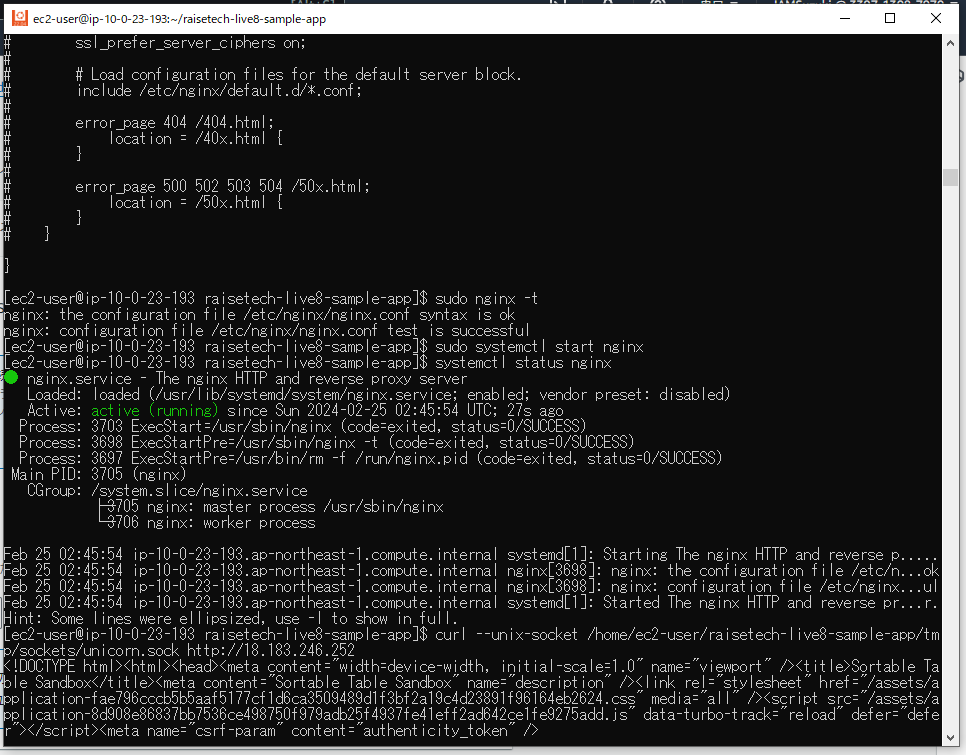
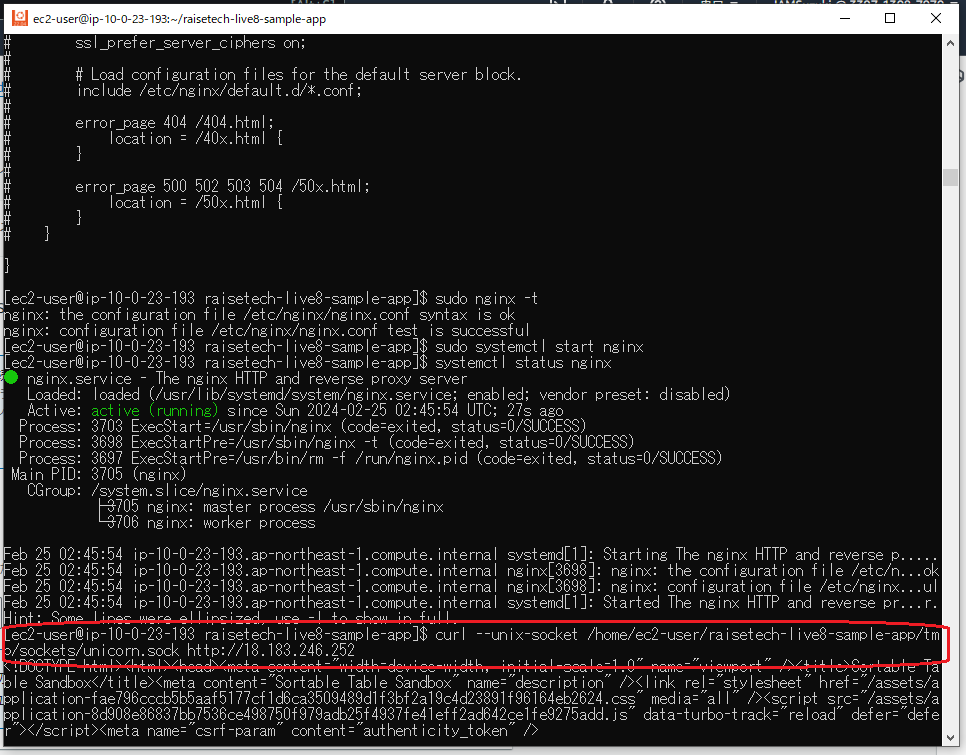
update lecture05.md

Changed region(s): [[0.8696, 0.8225, 0.9938, 0.8834], [0.0, 0.8225, 0.1242, 0.8834]]

diff --git a/lecture05.md b/lecture05.md
@@ -5,42 +5,47 @@
 ### [サンプルアプリケーション](https://github.com/yuta-ushijima/raisetech-live8-sample-app)のデプロイ結果
 
 - 組み込みサーバーのみ  
-  ![図](images_lec5/fruit_db_enbded.PNG)  
+    ![図](images_lec5/fruit_db_enbded.PNG)  
 
   - RDSへのデータ登録できていることも確認  
-    ![図](images_lec5/check_RDS_table.PNG)  
+      ![図](images_lec5/check_RDS_table.PNG)  
 
 
 - サーバーアプリケーションを分離  
-  ![図](images_lec5/start_status_nginx_unicorn.PNG)  
+    ![図](images_lec5/start_status_nginx_unicorn.PNG)  
 
   - curlコマンドでunix domain socket経由アクセス接続確認  
-    ![図](images_lec5/curl_socket_nginx.PNG)  
+      ![図](images_lec5/curl_socket_nginx.PNG)  
 
 
 - ALB追加  
-  ![図](images_lec5/access_through_alb.PNG)  
+    ![図](images_lec5/access_through_alb.PNG)  
 
 
 - S3追加  
-  ![図](images_lec5/s3_test3.PNG)  
+    ![図](images_lec5/s3_test3.PNG)  
 
-  - S3側で登録された画像を確認
-    ![図](images_lec5/s3_test4.PNG)  
+    - S3側で登録された画像を確認  
+      ![図](images_lec5/s3_test4.PNG)  
+
 
 ### 構成図
 
 - [Draw.io](https://app.diagrams.net/)で作成  
-  ![図](images_lec5/.PNG)  
+    ![図](images_lec5/AWS_Architecture.PNG)  
+
 
 
 ## 所感
 
 - ALBとS3については、マネジメントコンソール内で説明書きを読みながら割とあっさり設定完了できた  
-- 今回の課題は各種ソフトウェアのインストール・Ruby on Rails・Unicorn・Nginxの導入をAWSよりも学ぶウエイトが大きかった。 事前に設定方法や手順を整理して臨んだが、これができていなかったらもっと時間がかかったはず。  
+  - 今回の課題では、AWS自体よりも知識をほとんど持っていないRuby on Rails・Unicorn・Nginxの導入を学ぶウエイトが大きかった。 
+  - 事前に設定方法や手順を整理して臨んだが、これができていなかったらもっと時間がかかった。 
+
+
 - 今回一番の手戻り  
-    - NginxとUnicornを両方起動して通信させる際、403エラーの解決に3日要した。原因はNginxの設定ファイル内のtry_filesの記載漏れが原因だが、エラー番号から連想できない箇所で、NginxとUnicornのユーザー不整合やアクセス権限の問題を探してしまった。  
-      ![図](images_lec5/forbidden_by_tryfiles.PNG)  
+    - NginxとUnicornを両方起動して通信させる際、403エラーの解決に3日要した。原因はNginxの設定ファイル内のtry_filesの記載漏れが原因\(下図はエラー再現実験\)だが、エラー番号から連想できない箇所で、NginxとUnicornのユーザー不整合やアクセス権限の問題を散々探してしまった。  
+      ![図](images_lec5/error_try_files.PNG)  
 
 
 ## 備忘録
@@ -216,18 +221,18 @@
   > [!IMPORTANT]  
   > 組み込みサーバーによる起動成功を確認後に着手
 
-    - Gemfileに以下コードが記載されていることを確認  
+  - Gemfileに以下コードが記載されていることを確認  
 
-      ```ruby:Gemfile
-      gem 'unicorn'
-      ```
+    ```ruby:Gemfile
+    gem 'unicorn'
+    ```
 
-    - インストールコマンド実行
-      ![図](images_lec5/install_bundle_unicorn.PNG)  
+  - インストールコマンド実行
+    ![図](images_lec5/install_bundle_unicorn.PNG)  
 
-      ```
-      bundle install
-      ```
+    ```
+    bundle install
+    ```
 
 - 設定用ファイルの作成・編集  
   [`unicorn.rb`](https://github.com/herokaijp/devcenter/wiki/Rails-unicorn#%E8%A8%AD%E5%AE%9A)を編集し、sockteファイル・pidファイルの保存先を見直し  
@@ -241,22 +246,22 @@
   > [!NOTE]  
   > 起動時に\-pオプションでポート番号指定、\-Eオプションで環境指定\(`deveopment`は開発環境、`production`は本番環境\)、-Dオプションでデーモン\(常駐\)プロセス
 
-    ```
-    bundle exec unicorn -c config/unicorn.rb -p 3000 -E development -D
-    ```
+  ```
+  bundle exec unicorn -c config/unicorn.rb -p 3000 -E development -D
+  ```
 
-    ```
-    kill -QUIT `cat tmp/pids/unicorn.pid`
-    ```
+  > [!IMPORTANT]  
+  > pidファイルの保管場所にパスを修正しないと、pidファイルが無い旨のエラーが出て停止できない  
 
-    > [!IMPORTANT]  
-    > pidファイルの保管場所にパスを修正しないと、pidファイルが無い旨のエラーが出て停止できない  
+  ```
+  kill -QUIT `cat tmp/pids/unicorn.pid`
+  ```
 
-    ```
-    ps -ef | grep unicorn | grep -v grep
-    ```
+  ```
+  ps -ef | grep unicorn | grep -v grep
+  ```
 
-    ![図](images_lec5/start_status_unicorn.PNG)  
+  ![図](images_lec5/start_status_unicorn.PNG)  
 
   エラー時は以下を確認  
   ![図](images_lec5/error_RDS_not_activate1.PNG)  
@@ -296,8 +301,10 @@
     nginx -v
     ```
 
+
 - 設定用ファイルの作成・編集・内容チェック  
-  ![図](images_lec5/.PNG)★  
+  ![図](images_lec5/nginx_cnf_update_point1.PNG)  
+  ![図](images_lec5/nginx_cnf_update_point.PNG)  
 
   ```
   sudo cp -a /etc/nginx/nginx.conf /etc/nginx/nginx.conf.sample
@@ -308,11 +315,13 @@
   `local@unicorn`の記述の中に`proxy_set_header`がないと以下エラー  
     ![図](images_lec5/error_proxy_set.PNG)  
 
-  `server`の記述の中に`try_files`がないと以下エラー  
+
+  - `server`の記述の中に`try_files`がないと以下エラー\(下図はエラー再現実験\)  
+    ![図](images_lec5/forbidden_by_tryfiles.PNG)  
     ![図](images_lec5/error_try_files.PNG)  
 
 
-  - Nginxのの起動・停止・状態確認  
+  - Nginxの起動・停止・状態確認\(下図はエラー再現実験\)  
     ![図](images_lec5/start_status_nginx_only.PNG)  
     ![図](images_lec5/test_status_start_nginx.PNG)  
     ![図](images_lec5/ps_aux_unicorn_nginx.PNG)  
@@ -330,6 +339,7 @@
     ps aux | grep nginx
     ```
 
+
   - EC2インスタンス起動時とあわせた自動起動ON/OFF  
 
     ```
@@ -337,11 +347,13 @@
     sudo systemctl disable nginx
     ```
 
+
   - エラー時は以下を確認  
 
     ```
     sudo cat /var/log/nginx/error.log
     ```
+
 
 - `config/environments/development.rb`の設定変更後、CSS有効化のため以下コマンド実行  
   ![図](images_lec5/css_enhance.PNG)  
@@ -350,26 +362,27 @@
   bin/rails assets:precompile  
   ```
 
+
 - EC2のインバウンドルールに80番ポート追加  
   ![図](images_lec5/SGupdated.PNG)  
 
 8. ALBの設定
 
-- ALB用のセキュリティグループの設定  
-  ![図](images_lec5/.PNG)★  
-
 - ALBの設定  
   ![図](images_lec5/elb-1.PNG)  
+
+
+- ALB用のセキュリティグループの設定  
+  ![図](images_lec5/ELB_SG_properties.PNG)  
+
 
 - ターゲットグループの設定とヘルスチェック\(要アプリ起動\)  
   ![図](images_lec5/tg-1.PNG)  
   ![図](images_lec5/tg_healsth_check1.PNG)  
   ![図](images_lec5/alb-properties-1.PNG)  
 
-- ALB経由でアクセスしたところブロック  
-  ![図](images_lec5/erro_alb_access.PNG)  
 
-- `sconfig/environments/development.rb`の設定変更で解消  
+- ALB経由でアクセスしたところブロック ⇒ `sconfig/environments/development.rb`の設定変更で解消  
   ![図](images_lec5/update_config_environments_development.PNG)  
 
 9. S3の設定
@@ -378,8 +391,9 @@
   ![図](images_lec5/S3_properties.PNG)  
   ![図](images_lec5/S3_encryption_default_setting.PNG)  
 
+
 - IAMユーザーの作成\(S3アクセス用\)  
-  - IAMロールを作成しS3FullAccess権限付与  
+  - ユーザーを新規作成しS3FullAccess権限付与  
     ![図](images_lec5/IAM_attatch_Policy.PNG)  
     ![図](images_lec5/IAM-make-key.PNG)  
     ![図](images_lec5/IAM-make-Key-UseCase.PNG)  
@@ -388,15 +402,14 @@
     ![図](images_lec5/IAM-Key-DL.PNG)  
     ![図](images_lec5/IAM-properties.PNG)  
 
-  - EC2にIAMロール付与  
-    ![図](images_lec5/IAMRole_Set_EC2.PNG)  
-  - ![図](images_lec5/SetIAMToEC2.PNG)  
-    ![図](images_lec5/MakeIAMforEC2.PNG)  
 
 - EC2にS3接続用のIAMロールを作成して付与  
   - S3FullAccess権限付与  
-    ![図](images_lec5/.PNG)★  
+    ![図](images_lec5/IAMRole_Properties_S3Full.PNG)  
+
+  - EC2にIAMロール付与  
     ![図](images_lec5/IAMRole_Set_EC2.PNG)  
+
 
 - Unicornの設定ファイル編集  
   - `Gemfile`の設定変更\(要すれば\)  
@@ -426,19 +439,15 @@
     secret_access_key: ＜IAMユーザーのsecret_access_key＞
     ```
 
-    - 設定時、次のエラーメッセージが出たので、古い`credentials.yml.enc`をリネームして退避し、`config/master.key`、`credentials.yml.enc`を新しく作成  
+    > [!NOTE]  
+    > 登録時に以下エラーメッセージが出たら、古い`credentials.yml.enc`をリネームして退避、`config/master.key`、`credentials.yml.enc`を新規作成  
 
-      ```
-      create  config/master.key
-      Couldn't decrypt config/credentials.yml.enc. Perhaps you passed the wrong key?
-      ```
+    ![図](images_lec5/editoor_vi_credentials.PNG)  
 
-      ![図](images_lec5/editoor_vi_credentials.PNG)  
-
-      ```
-      mv config/credentials.yml.enc config/credentials_old.yml.enc
-      touch config/master.key
-      ```
+    ```
+    mv config/credentials.yml.enc config/credentials_old.yml.enc
+    touch config/master.key
+    ```
 
   - `config/environments/development.rb`の設定変更  
     ![図](images_lec5/edit_config_environments_development_rb.PNG)  
@@ -446,6 +455,7 @@
     ```
     config.active_storage.service = :amazon
     ```
+
 
 - EC2、Nginx、Unicorn、RDSを起動して動作確認  
   ![図](images_lec5/S3_test1.PNG)  
